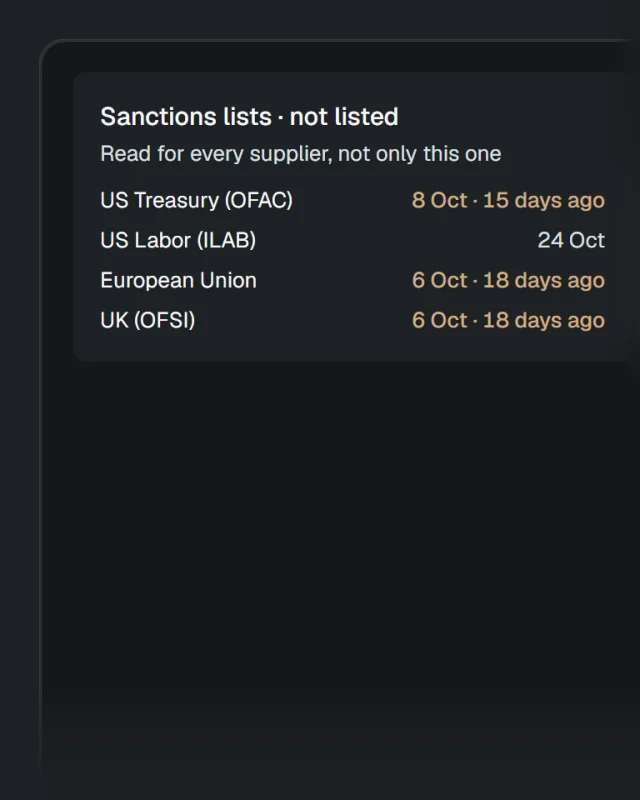
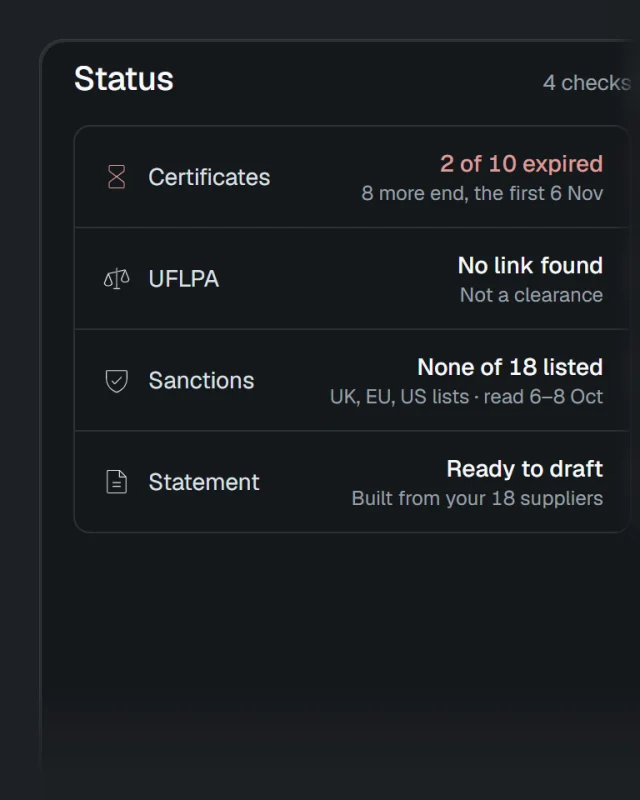
The checks' sanctions card is the compliance hub's Status panel, filling its card (founder, 25 Oct 2026)

diff --git a/components/site/sections/close.tsx b/components/site/sections/close.tsx
@@ -93,7 +93,7 @@ export function Stats({ facts }: { facts: SiteFacts }) {
 }
 
 export const CARDS: { still: string; says: string; title: string; body: string }[] = [
-  { still: "sanctions", says: "A record's sanctions panel: not listed, read for every supplier, with the day each list was read: US Treasury (OFAC) 8 Oct, US Labor (ILAB) 24 Oct, European Union 6 Oct, UK (OFSI) 6 Oct.", title: "Every supplier, against sanctions lists", body: "US, EU and UK lists, each with the day we read it. A supplier on one is marked everywhere and Send RFQ is refused." },
+  { still: "sanctions", says: "The compliance hub's four checks on the saved list: 2 of 10 certificates expired, no UFLPA link found, none of 18 suppliers on the UK, EU and US sanctions lists, read 6 to 8 Oct, and a statement ready to draft.", title: "Every supplier, against sanctions lists", body: "US, EU and UK lists, each with the day we read it. A supplier on one is marked everywhere and Send RFQ is refused." },
   { still: "uflpa", says: "The UFLPA checks on the saved list: none on the UFLPA Entity List, none with a possible Xinjiang link, no link found for 18 suppliers, then the suppliers A to Z.", title: "Forced-labour lists, checked for you", body: "Every saved supplier against the UFLPA Entity List. Entries added since our last read are said to be unchecked." },
   { still: "locked", says: "A record's contact panel: the contact details are locked, and Send RFQ under it.", title: "Contacts locked until they are given", body: "Contact details open only when the supplier or a register provides them. Locked is a state, not a blur." },
 ];

diff --git a/components/site/sections/browser.tsx b/components/site/sections/browser.tsx
@@ -55,7 +55,7 @@ export const LEDGER: Record<string, string> = {
   "clip-memberships": "record: Memberships",
   "clip-safety": "record: Safety (RSC)",
   "clip-sources": "record: Sources",
-  "still-sanctions": "record, dark, phone width: sanctions lists",
+  "still-sanctions": "compliance hub, dark, phone width: the four checks, sanctions among them",
   "still-uflpa": "UFLPA checks, dark, phone width: results and suppliers",
   "still-locked": "record, dark, phone width: contact details locked",
 };

diff --git a/public/site/home/PROVENANCE.md b/public/site/home/PROVENANCE.md
@@ -139,14 +139,15 @@ typed, saved or sent.
 `clip-record.*` (Aboni Knitwear's record, the camera coming in on its head and export figures) is the 22 Oct 2026 kit's
 and no longer on the home page.
 
-The checks' stills are the record and the UFLPA checks as the app draws them 375 px wide in its dark theme, where each
-panel is one column (same day, account and recorder, `THEME=dark`, `VW=375`), cut at one scale (360 CSS px across the
-card's window) and written 640 × 800 as WebP (quality 86). Under the sanctions panel the page is cleared to the app's own
-ground, so the contact panel, the next card's picture, is not shown twice.
+The checks' stills are the compliance hub, the UFLPA checks and the record as the app draws them 375 px wide in its
+dark theme, where each panel is one column (same account and recorder, `THEME=dark`, `VW=375`; the hub taken after the
+founder signed in again the same day), cut at one scale (360 CSS px across the card's window) and written 640 × 800 as
+WebP (quality 86). Under the hub's Status panel the page is cleared to the app's own ground, so the card holds the four
+checks and not the list below them.
 
 | Still | What it shows | File |
 | -- | -- | -- |
-| `sanctions` | Aboni Knitwear's sanctions lists: not listed, each list with the day it was read | `still-sanctions.webp` |
+| `sanctions` | The compliance hub's Status: 2 of 10 certificates expired, no UFLPA link, none of 18 on the UK, EU and US sanctions lists (read 6–8 Oct), a statement ready to draft | `still-sanctions.webp` |
 | `uflpa` | The UFLPA checks on the saved list: 0 on the Entity List, 0 possible Xinjiang links, 18 with no link found | `still-uflpa.webp` |
 | `locked` | Aboni Knitwear's contact panel, locked, with Send RFQ under it | `still-locked.webp` |
 
